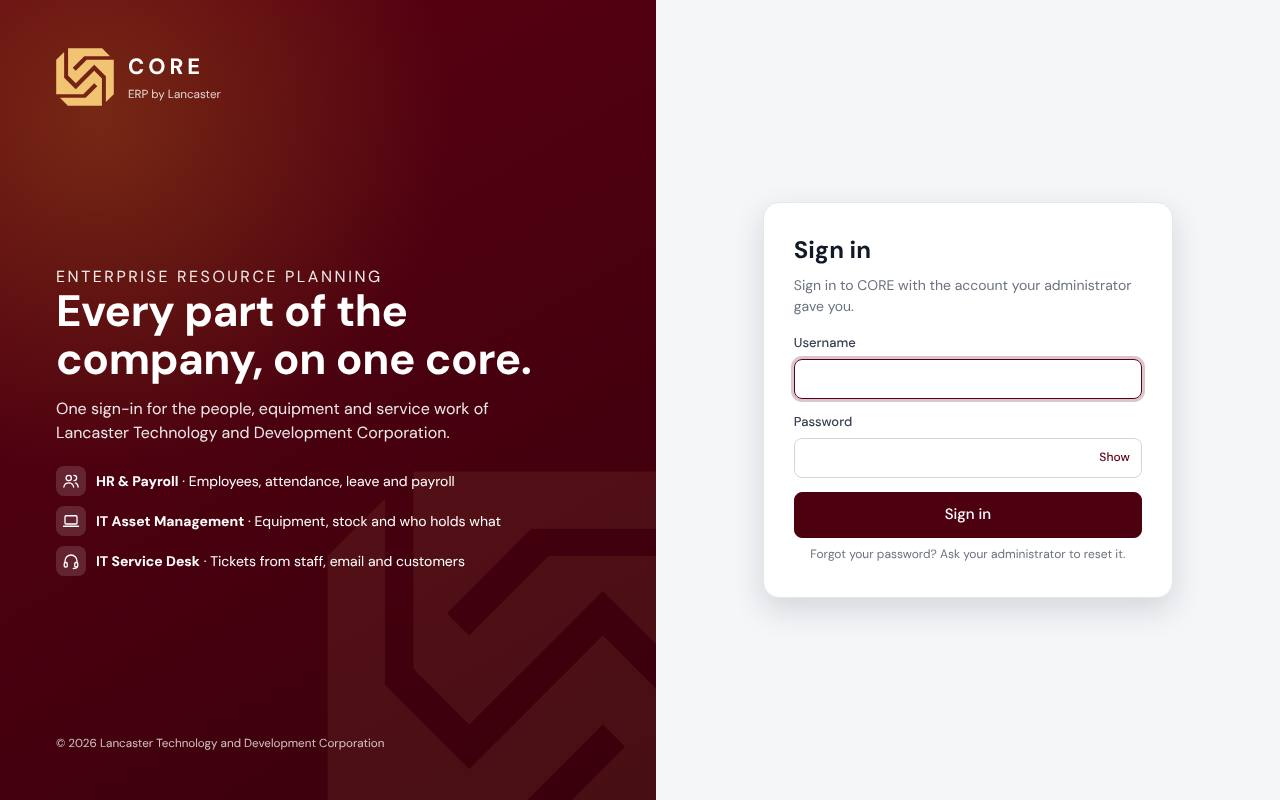
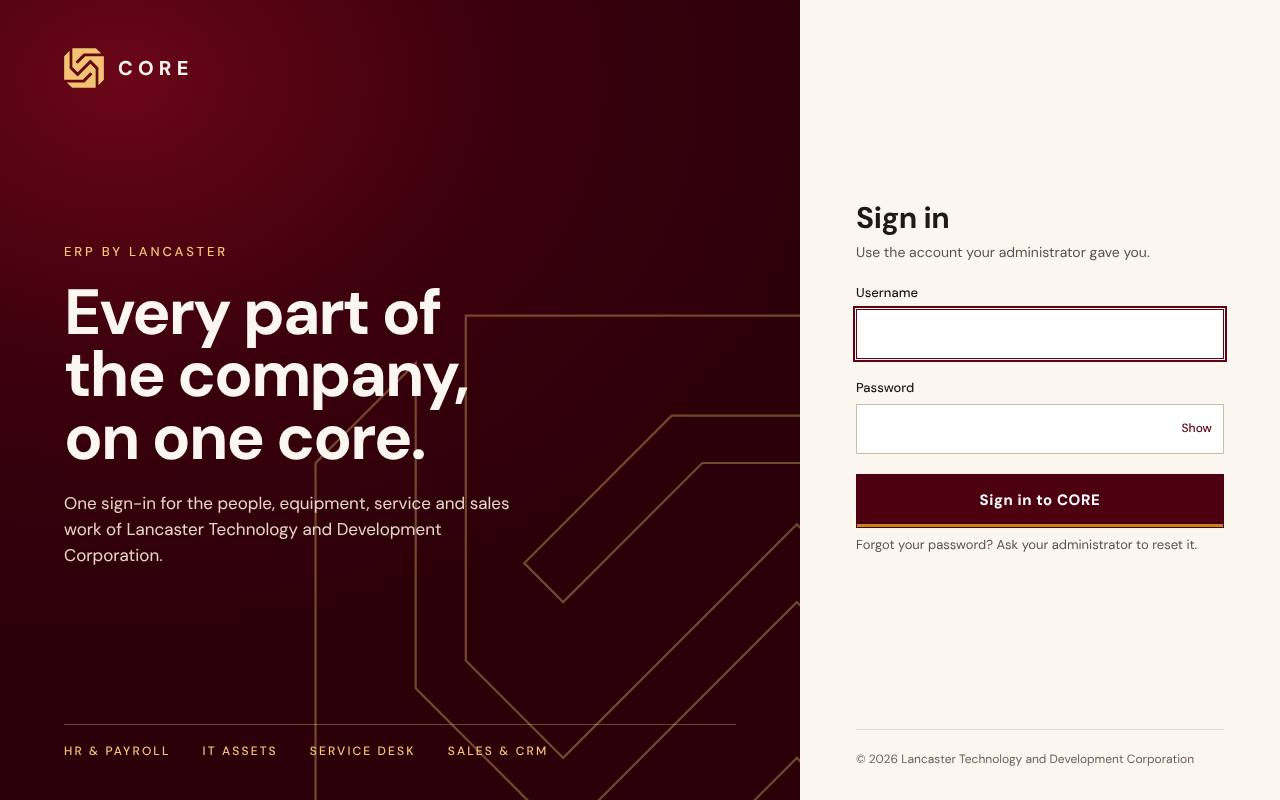
CORE 0.11.5: new sign-in page
The sign-in, first-run setup and change-password screens take direction
B (Vault) from the login mockups.
- CORE's deep maroon ground carries the mark drawn large in gold line,
  the headline, and the four modules along its foot.
- The form sits on a cream panel beside it: square fields, a "Sign in to
  CORE" button with a gold edge, and the copyright at the foot of the
  panel.
- On a phone or tablet the ground becomes a short band above the form;
  on a small phone the whole form starts within the first screen.
- In the dark theme the panel is a dark warm tone with gold focus rings.

Signing in, setup and password changes work as before. The guide's
sign-in screenshot is retaken, and What's new and the dev log record
the change.

Claude-Session: https://claude.ai/code/session_01JQ4oxiUA7CnD1ir2UC84uB

diff --git a/public/css/styles.css b/public/css/styles.css
@@ -322,28 +322,62 @@ a.list-item:hover strong { color: var(--brand-text); }
 #toast.error { background: var(--danger); color: #fff; }
 
 /* ===== Sign-in ===== */
-.auth-screen { display: grid; grid-template-columns: 1.05fr 1fr; min-height: 100vh; background: var(--bg); }
-.auth-hero { position: relative; overflow: hidden; color: #fff; padding: 48px 56px; display: flex; flex-direction: column; justify-content: space-between; gap: 24px;
-  background: radial-gradient(circle at 15% 15%, color-mix(in srgb, var(--accent) 30%, transparent), transparent 40%), linear-gradient(150deg, var(--brand) 0%, color-mix(in srgb, var(--brand) 60%, #000) 100%); }
-.auth-hero::after { content: ''; position: absolute; right: -140px; bottom: -140px; width: 460px; height: 460px; border-radius: 50%; border: 1px solid rgba(255, 255, 255, 0.16); box-shadow: 0 0 0 50px rgba(255, 255, 255, 0.04), 0 0 0 110px rgba(255, 255, 255, 0.03); }
-.auth-hero .seal { display: flex; align-items: center; gap: 14px; }
-.auth-hero .seal img { height: 64px; width: auto; max-width: 180px; object-fit: contain; background: rgba(255, 255, 255, 0.95); border-radius: 12px; padding: 6px; }
-.auth-hero .seal strong { font-size: 17px; display: block; }
-.auth-hero .seal small { opacity: 0.8; }
-.auth-kicker { font-size: 12px; letter-spacing: 0.16em; text-transform: uppercase; opacity: 0.85; margin: 0 0 12px; }
-.auth-hero h1 { color: #fff; font-size: 44px; line-height: 1.08; display: block; margin: 0 0 14px; }
-.auth-hero p { font-size: 16px; opacity: 0.9; margin: 0; max-width: 460px; }
-.auth-points { list-style: none; padding: 0; margin: 22px 0 0; display: grid; gap: 10px; }
-.auth-points li { display: flex; gap: 10px; align-items: center; font-size: 14px; }
-.auth-points .ic { padding: 6px; width: 30px; height: 30px; border-radius: 8px; background: rgba(255, 255, 255, 0.14); }
-.auth-hero small { opacity: 0.75; position: relative; z-index: 1; }
-.auth-panel { display: flex; align-items: center; justify-content: center; padding: 40px 24px; }
-.auth-card { width: 100%; max-width: 410px; background: var(--surface); border: 1px solid var(--border); border-radius: 16px; padding: 30px; display: flex; flex-direction: column; gap: 14px; box-shadow: var(--shadow-lg); }
-.auth-card h2 { font-size: 24px; margin: 0; }
-.auth-card > p { margin: -6px 0 4px; }
-.auth-logo { display: none; height: 56px; width: auto; max-width: 200px; object-fit: contain; align-self: center; }
-.auth-foot { text-align: center; font-size: 12px; color: var(--muted); margin: 0; }
+/* Sign-in (Vault): CORE's ground, deep maroon with the mark drawn large in gold line, beside a
+   cream panel that holds the form. On a phone the ground becomes a band above the form. */
+.auth-screen { display: grid; grid-template-columns: minmax(0, 1fr) minmax(400px, 480px); min-height: 100vh; min-height: 100dvh; background: #2c0009; }
+.auth-stage { position: relative; overflow: hidden; display: flex; flex-direction: column; justify-content: space-between; gap: 40px; padding: 48px 64px 40px; color: #f7efe4;
+  background: radial-gradient(90% 70% at 15% 10%, #6a0618 0%, #3a000c 55%, #2c0009 100%); }
+.auth-stage-mark { position: absolute; right: -250px; bottom: -250px; width: 740px; height: 740px; opacity: 0.36; pointer-events: none; user-select: none; }
+.auth-wordmark { position: relative; display: flex; align-items: center; gap: 14px; }
+.auth-wordmark img { width: 40px; height: 40px; flex: none; }
+.auth-wordmark span { font-weight: 800; font-size: 20px; letter-spacing: 0.26em; color: #fbf7f0; }
+.auth-intro { position: relative; display: flex; flex-direction: column; gap: 20px; max-width: 620px; }
+.auth-kicker { margin: 0; font-size: 13px; font-weight: 500; letter-spacing: 0.22em; text-transform: uppercase; color: #f2c373; }
+.auth-intro h1 { margin: 0; display: block; color: #fbf7f0; font-size: clamp(44px, 5vw, 72px); font-weight: 700; line-height: 0.98; letter-spacing: -0.03em; text-wrap: balance; }
+.auth-intro p:last-child { margin: 0; max-width: 460px; font-size: 17px; line-height: 1.55; color: #e6d6c6; }
+.auth-modules { position: relative; list-style: none; margin: 0; padding: 18px 0 0; border-top: 1px solid rgba(242, 195, 115, 0.35); display: flex; flex-wrap: wrap; gap: 8px 32px;
+  font-size: 12px; font-weight: 500; letter-spacing: 0.18em; text-transform: uppercase; color: #f2c373; }
+.auth-panel { --auth-ink: #1d1a17; --auth-quiet: #5b5249; background: #fbf7f0; color: var(--auth-ink); display: flex; flex-direction: column; gap: 28px; padding: 56px 56px 32px; }
+.auth-card { width: 100%; margin-block: auto; display: flex; flex-direction: column; gap: 20px; }
+.auth-card h2 { margin: 0; font-size: 30px; font-weight: 700; line-height: 1.1; letter-spacing: -0.015em; color: var(--auth-ink); }
+.auth-card > p { margin: -12px 0 2px; }
+.auth-panel .muted, .auth-foot { color: var(--auth-quiet); }
+.auth-panel .field > span:first-child { font-weight: 500; color: var(--auth-ink); }
+.auth-panel input { height: 50px; padding: 0 16px; border-radius: 0; border-color: #c9bcab; background: #fff; color: var(--auth-ink); font-size: 16px; }
+.auth-panel input:focus { outline: 2px solid var(--brand); outline-offset: 1px; border-color: var(--brand); }
+.auth-panel .pw-wrap input { padding-right: 64px; }
+.auth-panel .btn.primary.block { min-height: 54px; border-radius: 0; font-weight: 700; letter-spacing: 0.04em; box-shadow: inset 0 -3px 0 var(--accent); }
+.auth-foot { text-align: left; font-size: 13px; margin: 0; }
 .auth-switch { text-align: center; font-size: 13px; margin: 0; }
+.auth-legal { margin: 0; padding-top: 20px; border-top: 1px solid #e3d8c9; font-size: 12px; line-height: 1.5; color: #6b6157; }
+:root[data-theme='dark'] .auth-panel { --auth-ink: #efe6e1; --auth-quiet: #c2b3ac; background: #1b1113; }
+:root[data-theme='dark'] .auth-panel input { background: #24181a; border-color: #4f3a3d; color: #efe6e1; }
+:root[data-theme='dark'] .auth-panel input:focus { outline-color: #f2c373; border-color: #f2c373; }
+:root[data-theme='dark'] .auth-panel .pw-wrap .link { color: #f2c373; }
+:root[data-theme='dark'] .auth-legal { border-color: #3a2a2c; color: #a8989a; }
+@media (max-width: 960px) {
+  .auth-screen { grid-template-columns: minmax(0, 1fr); grid-template-rows: auto 1fr; }
+  .auth-stage { padding: 24px 24px 28px; gap: 26px; }
+  .auth-stage-mark { width: 340px; height: 340px; right: -120px; bottom: -140px; }
+  .auth-intro { gap: 12px; }
+  .auth-intro h1 { font-size: 36px; }
+  .auth-intro p:last-child { font-size: 15px; }
+  .auth-modules { display: none; }
+  .auth-panel { padding: 28px 24px 24px; }
+  .auth-card, .auth-legal { width: 100%; max-width: 520px; margin-inline: auto; }
+  .auth-card { margin-block: 0 auto; }
+}
+@media (min-width: 600px) and (max-width: 960px) {
+  .auth-stage { padding: 40px 48px 44px; gap: 36px; }
+  .auth-intro h1 { font-size: 52px; }
+  .auth-intro p:last-child { font-size: 17px; }
+  .auth-panel { padding: 40px 48px 32px; }
+}
+@media (max-width: 420px) {
+  .auth-stage { gap: 18px; padding-bottom: 22px; }
+  .auth-intro h1 { font-size: 30px; }
+  .auth-intro p:last-child { display: none; }
+}
 .pw-wrap { position: relative; }
 .pw-wrap input { padding-right: 60px; }
 .pw-wrap .link { position: absolute; right: 10px; top: 50%; transform: translateY(-50%); font-size: 12px; }
@@ -409,9 +443,6 @@ body.hub .topbar { padding-left: 24px; }
   body.hub .topbar { padding-left: 12px; }
   .stats { grid-template-columns: repeat(2, minmax(0, 1fr)); gap: 10px; }
   .stats strong { font-size: 22px; }
-  .auth-screen { grid-template-columns: 1fr; }
-  .auth-hero { display: none; }
-  .auth-logo { display: block; }
   .toolbar > input, .toolbar > select, .toolbar > label.inline { flex: 1 1 100%; max-width: none; }
   .toolbar input[type='search'] { max-width: none; }
   .toolbar label.inline > input[type='checkbox'] { flex: none; }
@@ -1163,15 +1194,6 @@ body.launcher-mode main#app { padding: 0; max-width: none; display: flex; flex-d
 .hub-foot .core-foot { display: inline-flex; align-items: center; gap: 8px; }
 .hub-foot .core-foot img { width: 18px; height: 18px; }
 
-/* Sign-in */
-.auth-hero .seal img.core-seal { background: none; padding: 0; height: 58px; width: 58px; border-radius: 0; }
-.auth-hero .seal strong.core-name { font-size: 22px; letter-spacing: 0.18em; font-weight: 800; }
-.auth-hero .hero-mark { position: absolute; right: -90px; bottom: -90px; width: 420px; height: 420px; opacity: 0.08; pointer-events: none; }
-.auth-hero::after { display: none; }
-.auth-logo.core { height: 64px; width: 64px; }
-.auth-brand { display: none; text-align: center; margin: -4px 0 2px; }
-.auth-brand strong { display: block; font-size: 22px; letter-spacing: 0.18em; font-weight: 800; color: var(--brand-text); }
-.auth-brand small { color: var(--muted); font-size: 12px; }
 
 @media (max-width: 1100px) {
   .soon-grid { grid-template-columns: repeat(3, minmax(0, 1fr)); }
@@ -1180,7 +1202,6 @@ body.launcher-mode main#app { padding: 0; max-width: none; display: flex; flex-d
 @media (max-width: 960px) {
   .sys-grid.three { grid-template-columns: repeat(2, minmax(0, 1fr)); }
   .hub-hero .hero-mark { width: 140px; height: 140px; right: 4%; }
-  .auth-brand { display: block; }
   .mod-pop { position: fixed; left: 10px; right: 10px; top: calc(var(--topbar) + 4px); min-width: 0; }
 }
 @media (max-width: 760px) {

diff --git a/public/js/views/login.js b/public/js/views/login.js
@@ -1,29 +1,28 @@
 import { api } from '../api.js';
 import { ctx } from '../state.js';
 import { html, mount, modal, toast } from '../ui.js';
-import { icon } from '../icons.js';
 
-const POINTS = [
-  ['users', 'HR & Payroll', 'Employees, attendance, leave and payroll'],
-  ['laptop', 'IT Asset Management', 'Equipment, stock and who holds what'],
-  ['headset', 'IT Service Desk', 'Tickets from staff, email and customers'],
-];
+const MODULES = ['HR & Payroll', 'IT Assets', 'Service Desk', 'Sales & CRM'];
 
+// The sign-in screens: CORE's own ground (deep maroon, the mark drawn large in gold line) beside
+// a cream panel that holds the form. On a phone the ground shrinks to a band above the form.
 function authScreen(el, card) {
   mount(el, html`
     <div class="auth-screen">
-      <section class="auth-hero">
-        <img class="hero-mark" src="/img/core-mark.svg" alt="" />
-        <div class="seal"><img class="core-seal" src="/img/core-mark.svg" alt="" /><div><strong class="core-name">CORE</strong><small>ERP by Lancaster</small></div></div>
-        <div style="position:relative;z-index:1">
-          <p class="auth-kicker">Enterprise Resource Planning</p>
+      <section class="auth-stage">
+        <img class="auth-stage-mark" src="/img/core-mark-line.svg" alt="" />
+        <div class="auth-wordmark"><img src="/img/core-mark.svg" alt="" /><span>CORE</span></div>
+        <div class="auth-intro">
+          <p class="auth-kicker">ERP by Lancaster</p>
           <h1>Every part of the company, on one core.</h1>
-          <p>One sign-in for the people, equipment and service work of Lancaster Technology and Development Corporation.</p>
-          <ul class="auth-points">${POINTS.map(([i, name, text]) => html`<li>${icon(i, 30)} <span><strong>${name}</strong> · ${text}</span></li>`)}</ul>
+          <p>One sign-in for the people, equipment, service and sales work of Lancaster Technology and Development Corporation.</p>
         </div>
-        <small>© ${new Date().getFullYear()} Lancaster Technology and Development Corporation</small>
+        <ul class="auth-modules" aria-label="Modules">${MODULES.map((m) => html`<li>${m}</li>`)}</ul>
       </section>
-      <section class="auth-panel">${card}</section>
+      <section class="auth-panel">
+        ${card}
+        <p class="auth-legal">© ${new Date().getFullYear()} Lancaster Technology and Development Corporation</p>
+      </section>
     </div>`);
   const form = el.querySelector('form');
   form.querySelector('input')?.focus();
@@ -36,9 +35,6 @@ function authScreen(el, card) {
   );
   return form;
 }
-
-// Shown above the form on phones, where the hero is hidden.
-const cardBrand = () => html`<img class="auth-logo core" src="/img/core-mark-brand.svg" alt="" /><div class="auth-brand"><strong>CORE</strong><small>ERP by Lancaster</small></div>`;
 
 const passwordField = (label, name, autocomplete) => html`
   <label class="field"><span>${label}</span>
@@ -65,13 +61,12 @@ function onSubmit(form, handler) {
 export function loginView(el, { onSignedIn }) {
   const form = authScreen(el, html`
     <form class="auth-card" novalidate>
-      ${cardBrand()}
       <h2>Sign in</h2>
-      <p class="muted">Sign in to CORE with the account your administrator gave you.</p>
+      <p class="muted">Use the account your administrator gave you.</p>
       <label class="field"><span>Username</span><input name="username" autocomplete="username" autocapitalize="none" spellcheck="false" required /></label>
       ${passwordField('Password', 'password', 'current-password')}
       <p class="form-error" hidden></p>
-      <button class="btn primary block" type="submit">Sign in</button>
+      <button class="btn primary block" type="submit">Sign in to CORE</button>
       <p class="auth-foot">Forgot your password? Ask your administrator to reset it.</p>
     </form>`);
   onSubmit(form, async ({ username, password }) => {
@@ -84,7 +79,6 @@ export function loginView(el, { onSignedIn }) {
 export function setupView(el, { onSignedIn }) {
   const form = authScreen(el, html`
     <form class="auth-card" novalidate>
-      ${cardBrand()}
       <h2>Welcome! Let's get set up</h2>
       <p class="muted">Create the first <strong>Administrator</strong> account. You can add HR, payroll, IT and employee accounts after signing in.</p>
       <label class="field"><span>Your full name</span><input name="name" autocomplete="name" required /></label>
@@ -105,7 +99,6 @@ export function setupView(el, { onSignedIn }) {
 export function forcePasswordView(el, { onSignedIn, onSignOut }) {
   const form = authScreen(el, html`
     <form class="auth-card" novalidate>
-      ${cardBrand()}
       <h2>Choose a new password</h2>
       <p class="muted">Hi ${ctx.user.name}. Your password was set by an administrator, so please replace it before continuing.</p>
       ${passwordField('Current (temporary) password', 'currentPassword', 'current-password')}

diff --git a/shared/devlog.js b/shared/devlog.js
@@ -27,6 +27,17 @@ export const CHANGE_TYPES = { new: 'Added', improved: 'Changed', fixed: 'Fixed' 
 
 export const DEVLOG = [
   {
+    version: '0.11.5-alpha',
+    date: '2026-11-09',
+    title: 'New sign-in page',
+    modules: ['system'],
+    notes: 'The sign-in, first-run setup and change-password screens carry the CORE brand.',
+    changes: [
+      ['improved', 'system', 'Sign-in: CORE\'s deep maroon ground with the mark drawn large in gold line, the four modules along its foot, and the form on a cream panel beside it. A sharper Sign in to CORE button with a gold edge, and the copyright at the foot of the panel. The same layout for first-run setup and for choosing a new password.'],
+      ['improved', 'system', 'On a phone or tablet the maroon ground becomes a short band above the form; on a small phone the form starts within the first screen. In the dark theme the panel is a dark warm tone instead of navy.'],
+    ],
+  },
+  {
     version: '0.11.4-alpha',
     date: '2026-11-08',
     title: 'Formal payslip layout',

diff --git a/docs/guides/whats-new.md b/docs/guides/whats-new.md
@@ -9,6 +9,9 @@ order: 2
 
 ## November 2026
 
+### New sign-in page (0.11.5)
+- The sign-in page has a new look: CORE's maroon and gold beside the form, the same for first-run setup and for choosing a new password. Signing in works as before. See [Getting started](getting-started#sign-in).
+
 ### Sales & CRM checks (0.11.2 and 0.11.3)
 - Two people editing the same record no longer overwrite each other: the second save is refused with a message to reload. See [the sales guide](sales).
 - **Renew** on a contract links the renewal deal to the contract, and does not start a second one. Bids above the ABC are refused in every government procurement mode. Deals are closed as won or lost from the stage bar or the board, which always ask for the lost reason. See [the sales guide](sales).
